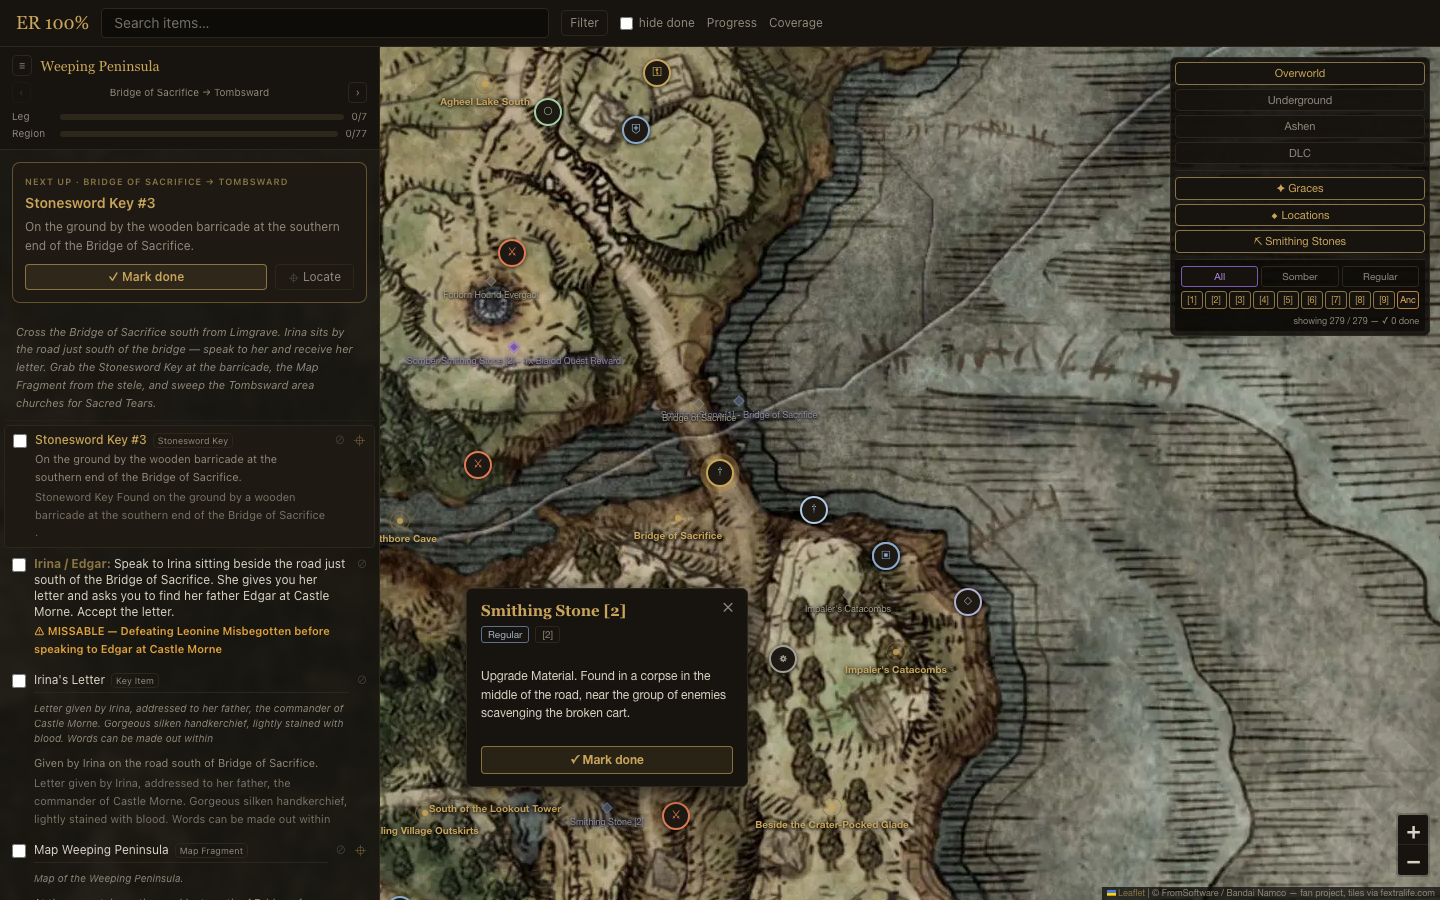
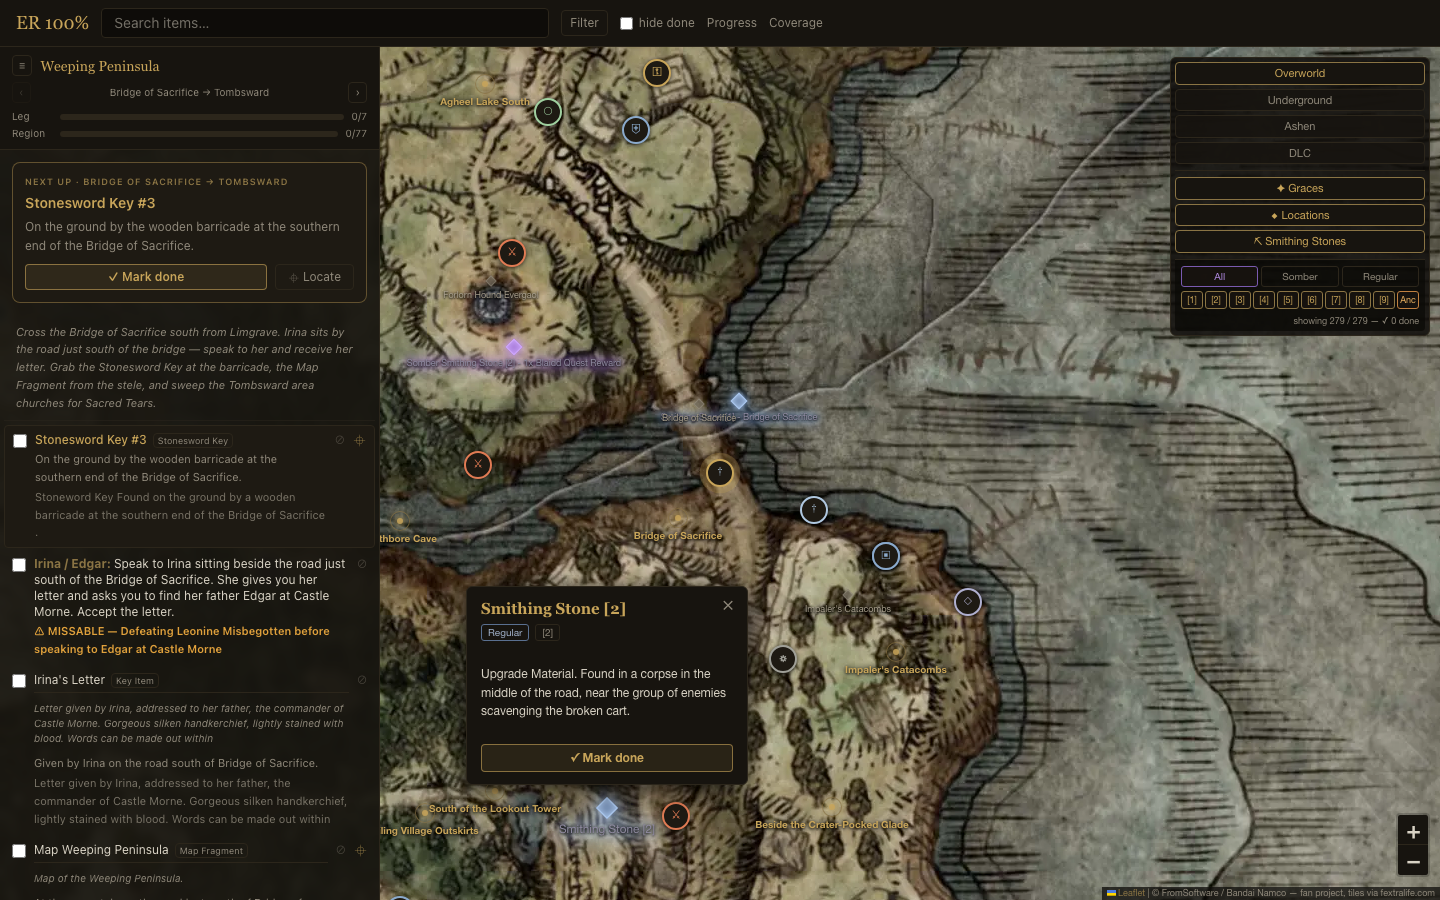
feat: smithing stones — brighter steel-blue + pulsing purple somber, larger diamonds

diff --git a/src/index.css b/src/index.css
@@ -422,43 +422,71 @@ body {
   color: #d8d2c4;
 }
 
-/* ── Smithing stone markers — small muted diamonds, below item pins ── */
-/* Regular smithing stone: grey-steel diamond with subtle glow */
+/* ── Smithing stone markers — bright lit diamonds, below item pins ── */
+/* Regular smithing stone: brighter steel-blue diamond with a clear glow halo.
+   Sized up from 10px and given a strong layered drop-shadow so the cluster is
+   easy to spot against the dark map. */
 .er-smith {
   position: relative;
-  width: 10px;
-  height: 10px;
-  /* subtle outer halo so the cluster reads as a group */
-  filter: drop-shadow(0 0 2px rgba(113, 128, 150, 0.35));
-  transition: filter 0.15s ease;
+  width: 14px;
+  height: 14px;
+  /* layered halo: tight bright core + soft wide bloom */
+  filter:
+    drop-shadow(0 0 3px rgba(160, 200, 255, 0.85))
+    drop-shadow(0 0 7px rgba(120, 160, 220, 0.55));
+  transition: filter 0.15s ease, transform 0.15s ease;
 }
 .er-smith::before {
   content: '';
   position: absolute;
   inset: 1px;
   transform: rotate(45deg);
-  background: #4a5568;
-  border: 1px solid #718096;
-  opacity: 0.85;
+  /* lighter, more saturated steel so the fill itself reads brightly */
+  background: #7a93b8;
+  border: 1.5px solid #aecaf0;
+  opacity: 1;
+  box-shadow: 0 0 4px 1px rgba(174, 202, 240, 0.7) inset;
 }
 .er-smith:hover {
-  filter: drop-shadow(0 0 4px rgba(113, 128, 150, 0.65));
+  transform: scale(1.3);
+  filter:
+    drop-shadow(0 0 5px rgba(190, 220, 255, 1))
+    drop-shadow(0 0 11px rgba(140, 180, 240, 0.8));
 }
-/* Somber smithing stone: cooler purple accent with brighter glow so they
-   stand out from the gold-themed graces and the grey regular stones. */
+/* Somber smithing stone: vivid purple accent with a brighter, pulsing glow so
+   they clearly stand out from gold graces and the steel-blue regular stones. */
 .er-smith--somber {
-  /* noticeably brighter / cooler than regular */
-  filter: drop-shadow(0 0 3px rgba(155, 127, 212, 0.55));
+  filter:
+    drop-shadow(0 0 4px rgba(200, 150, 255, 0.95))
+    drop-shadow(0 0 9px rgba(165, 110, 230, 0.6));
+  animation: er-smith-pulse 2.2s ease-in-out infinite;
 }
 .er-smith--somber::before {
-  background: #5a4070;
-  border-color: #b08ae0;
+  background: #8a5cc0;
+  border-color: #d4adff;
   opacity: 1;
-  /* inner luminance so the diamond reads as lit */
-  box-shadow: 0 0 4px 1px rgba(176, 138, 224, 0.6) inset;
+  box-shadow: 0 0 6px 2px rgba(212, 173, 255, 0.85) inset;
 }
 .er-smith--somber:hover {
-  filter: drop-shadow(0 0 6px rgba(176, 138, 224, 0.9));
+  transform: scale(1.3);
+  filter:
+    drop-shadow(0 0 6px rgba(220, 180, 255, 1))
+    drop-shadow(0 0 13px rgba(190, 140, 250, 0.9));
+}
+
+/* Gentle glow pulse to draw the eye to somber (rarer) stones */
+@keyframes er-smith-pulse {
+  0%,
+  100% {
+    filter:
+      drop-shadow(0 0 4px rgba(200, 150, 255, 0.9))
+      drop-shadow(0 0 8px rgba(165, 110, 230, 0.5));
+  }
+  50% {
+    filter:
+      drop-shadow(0 0 6px rgba(220, 180, 255, 1))
+      drop-shadow(0 0 14px rgba(190, 140, 250, 0.85));
+  }
 }
 /* Checked smithing stone: dim + green badge (mirrors er-pin--checked behaviour) */
 .er-smith--checked {

diff --git a/src/lib/markers.ts b/src/lib/markers.ts
@@ -124,8 +124,8 @@ export function smithingStoneIcon(name: string, somber: boolean, checked = false
   return L.divIcon({
     html: smithingStoneHtml(name, somber, checked),
     className: '',
-    iconSize: [10, 10],
-    iconAnchor: [5, 5],
-    popupAnchor: [0, -8],
+    iconSize: [14, 14],
+    iconAnchor: [7, 7],
+    popupAnchor: [0, -10],
   })
 }
